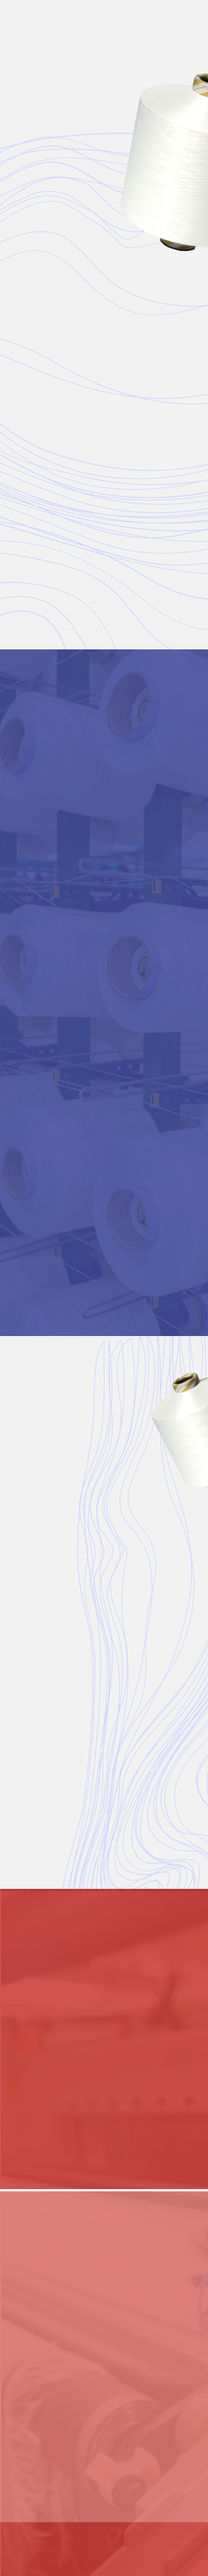
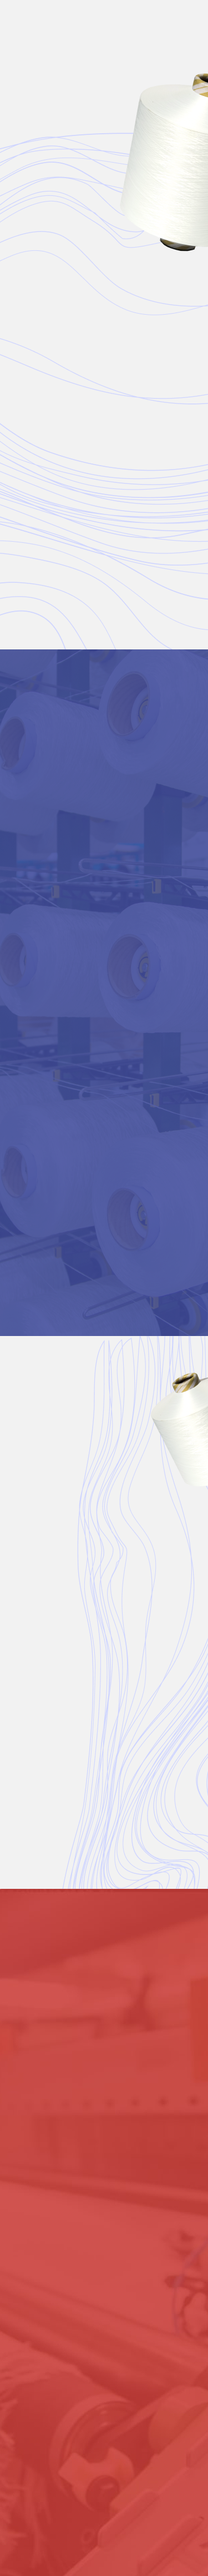
Changed backgrounds

Changed region(s): [[0.0, 0.8436, 1.0, 1.0]]

diff --git a/style.css b/style.css
@@ -1924,7 +1924,7 @@ input[type="radio"]:checked + label span {
 }
 @media screen and (max-width: 480px) {
   .background {
-    background-image: url(./images/aa1.png);
+    background-image: url(images/aa1.png);
     background-repeat: no-repeat;
     background-size: contain;
     top: 0;
@@ -2168,7 +2168,7 @@ input[type="radio"]:checked + label span {
 }
 @media screen and (max-width: 430px) {
   .background {
-    background-image: url(./images/4300.png);
+    background-image: url(images/4300.png);
 
     height: 4640px;
   }
@@ -2387,7 +2387,7 @@ input[type="radio"]:checked + label span {
 }
 @media screen and (max-width: 375px) {
   .background {
-    background-image: url(./images/375.png);
+    background-image: url(images/375.png);
 
     height: 4640px;
   }
@@ -2493,7 +2493,7 @@ input[type="radio"]:checked + label span {
   }
   /**/
   .background {
-    background-image: url(./images/aaaa320.png);
+    background-image: url(images/aaaa320.png);
     background-repeat: no-repeat;
     background-size: cover;
     top: 0;
